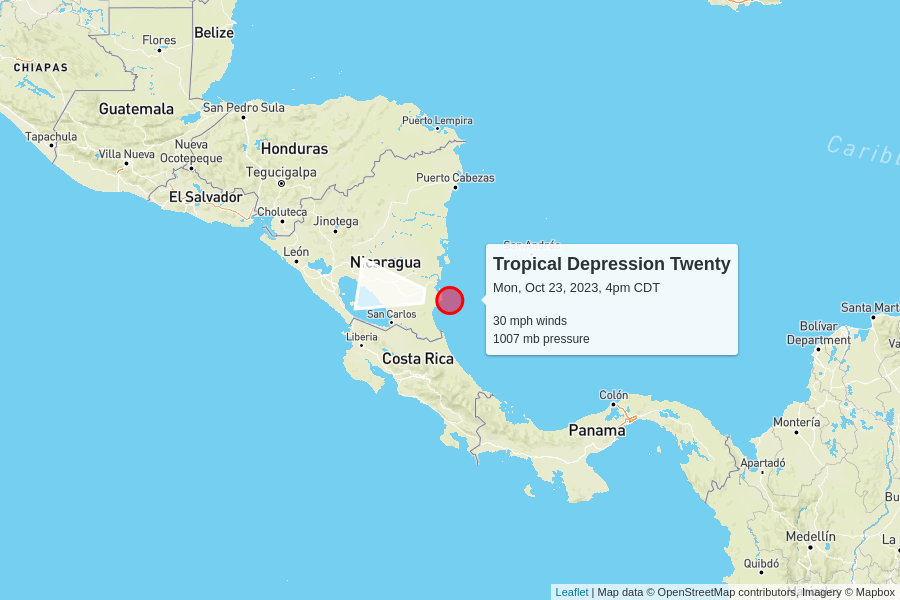
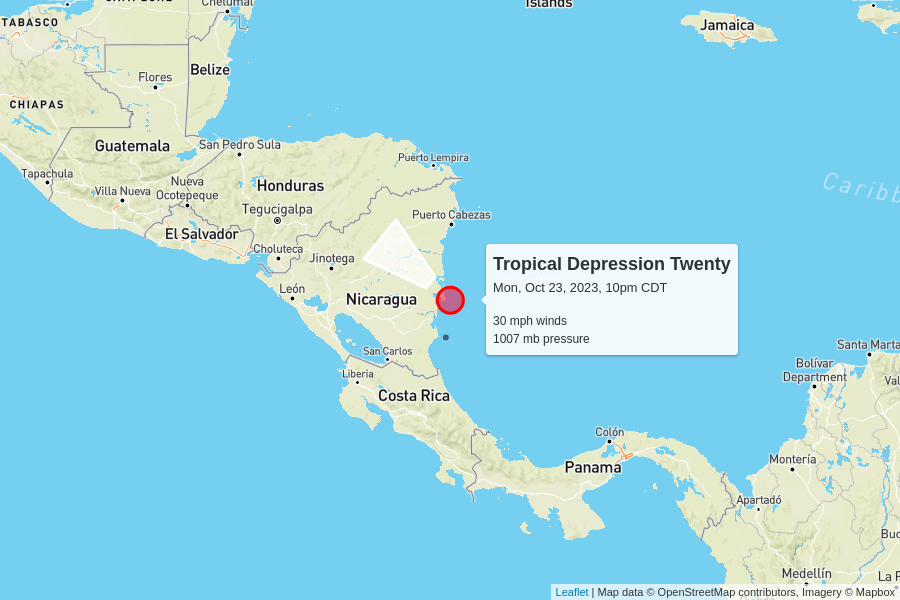
automatic update

diff --git a/docs/index.html b/docs/index.html
@@ -104,7 +104,7 @@
         <td colspan="6" class="storm category-1" >
           <h2>
             Hurricane Tammy - Category 1
-            <p class="updated">last updated <span data-time>2023-10-23T21:00:00.000Z</span></p>
+            <p class="updated">last updated <span data-time>2023-10-24T03:00:00.000Z</span></p>
           </h2>
         </td>
       </tr>
@@ -119,12 +119,12 @@
       </tr>
       <tr>
         <td class="spacer"></td>
-        <td>75 mph<br>-5 mph since last update</td>
-        <td>990 mb<br>-3 mb since last update</td>
+        <td>75 mph<br>0 mph since last update</td>
+        <td>987 mb<br>-3 mb since last update</td>
         <td>
-          7 mph to the north-northeast
+          9 mph to the northeast
           <br/>
-          <span style="display: inline-block; font-size: 1.5em; transform: rotate(15deg);">↑</span>
+          <span style="display: inline-block; font-size: 1.5em; transform: rotate(45deg);">↑</span>
         </td>
         <td><a href="https://raw.githubusercontent.com/mgwalker/atlantic-hurricanes/main/data/csv/AL202023.csv">AL202023.csv</a></td>
         <td><a href="https://www.nhc.noaa.gov/archive/2023/TAMMY.shtml?">NHC advisories</a></td>
@@ -148,7 +148,7 @@
         <td colspan="6" class="storm category-0" >
           <h2>
             Tropical Depression Twenty
-            <p class="updated">last updated <span data-time>2023-10-23T21:00:00.000Z</span></p>
+            <p class="updated">last updated <span data-time>2023-10-24T03:00:00.000Z</span></p>
           </h2>
         </td>
       </tr>
@@ -163,12 +163,12 @@
       </tr>
       <tr>
         <td class="spacer"></td>
-        <td>30 mph</td>
-        <td>1007 mb</td>
+        <td>30 mph<br>0 mph since last update</td>
+        <td>1007 mb<br>0 mb since last update</td>
         <td>
-          5 mph to the west
+          5 mph to the northwest
           <br/>
-          <span style="display: inline-block; font-size: 1.5em; transform: rotate(280deg);">↑</span>
+          <span style="display: inline-block; font-size: 1.5em; transform: rotate(310deg);">↑</span>
         </td>
         <td><a href="https://raw.githubusercontent.com/mgwalker/atlantic-hurricanes/main/data/csv/AL212023.csv">AL212023.csv</a></td>
         <td><a href="https://www.nhc.noaa.gov/archive/2023/TWENTY.shtml?">NHC advisories</a></td>
